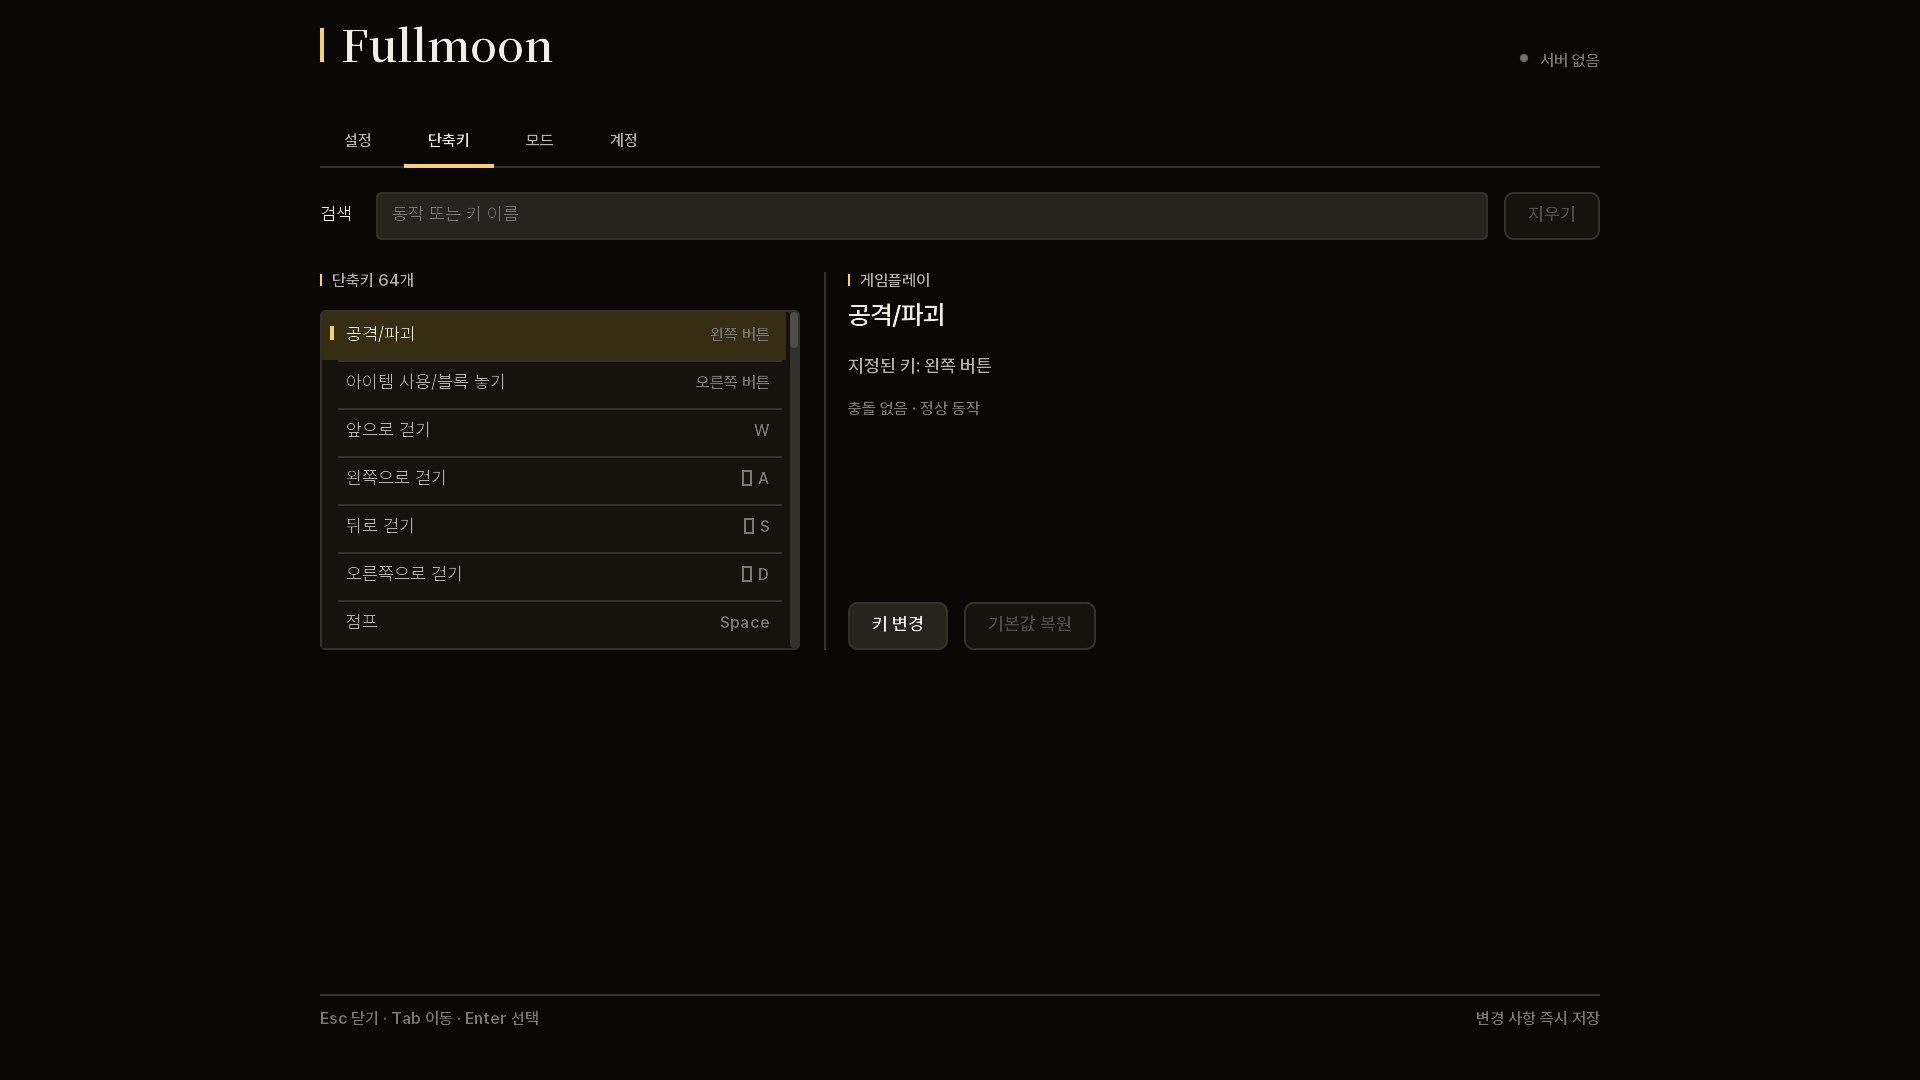
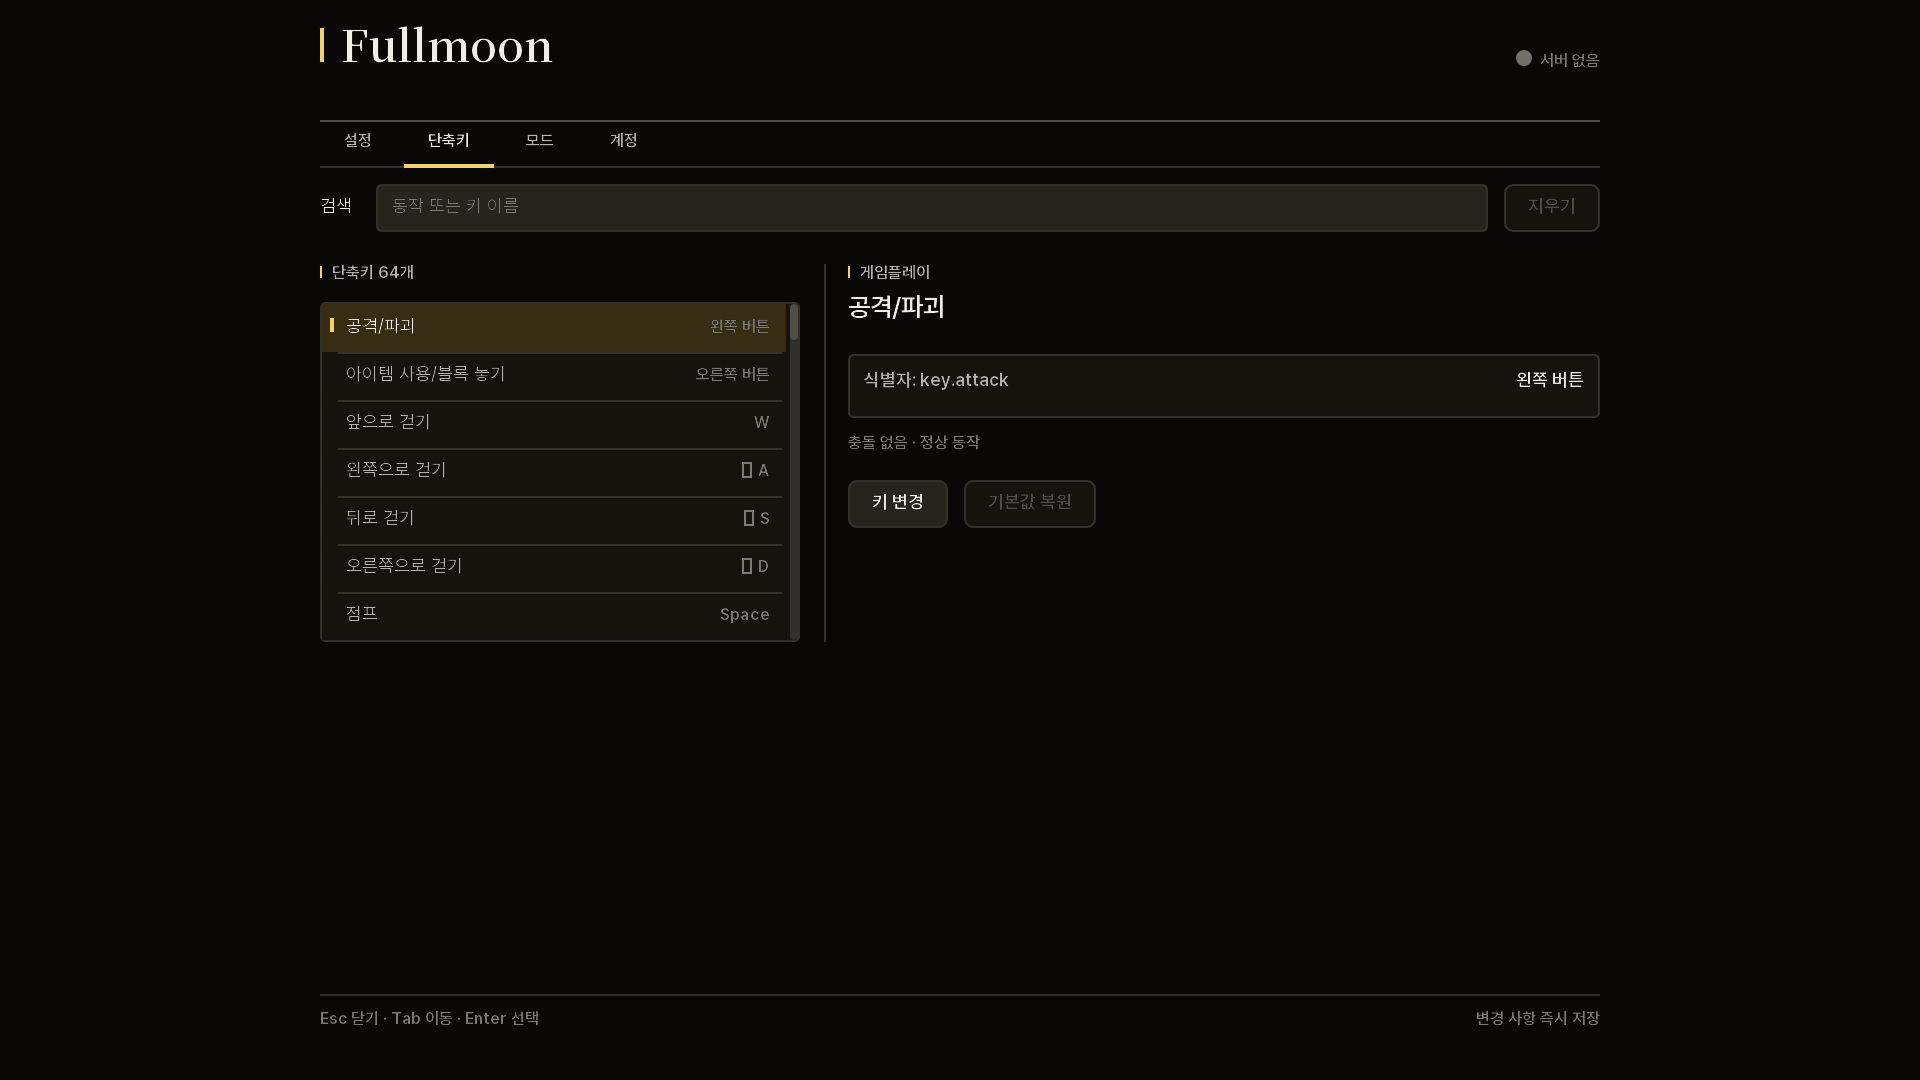
style(i3): fine-tune master-detail ledger layouts, card rhythm, and action alignment

diff --git a/i3/mod/src/main/java/dev/fullmoon/client/account/AccountScreen.java b/i3/mod/src/main/java/dev/fullmoon/client/account/AccountScreen.java
@@ -28,8 +28,9 @@ import net.minecraft.network.chat.Component;
 
 /** In-game player identity and network connection surface. */
 public final class AccountScreen extends SurfaceScreen {
-    private static final int MAX_CONTENT = 540;
+    private static final int MAX_CONTENT = 580;
     private static final int COMPACT_HEIGHT = 320;
+    private static final int CARD_HEIGHT = 68;
 
     private final Screen parent;
     private final TabRail hub;
@@ -68,17 +69,21 @@ public final class AccountScreen extends SurfaceScreen {
         content = new Box((width - frame) / 2, edge, frame, height - edge * 2);
         footerY = content.bottom() - Tokens.Type.LABEL.leading() - Tokens.Space.COZY;
 
-        int railY = content.y() + (compact ? Tokens.Type.TITLE.leading() : Tokens.Type.DISPLAY.leading()) + Tokens.Space.COZY;
+        int railY = content.y() + HubChrome.mastheadHeight(compact);
         hub.place(new Box(content.x(), railY, content.w(), TabRail.HEIGHT));
 
-        int bodyY = railY + TabRail.HEIGHT + Tokens.Space.LOOSE;
+        int bodyY = railY + TabRail.HEIGHT + Tokens.Space.GUTTER;
         body = Box.between(content.x(), bodyY, content.right(), footerY - Tokens.Space.GUTTER);
 
-        int buttonY = body.bottom() - Button.HEIGHT;
+        int profileCardY = body.y() + DevChrome.sectionHeadHeight();
         int copyUuidW = copyUuid.measure();
+        copyUuid.place(new Box(body.right() - copyUuidW - Tokens.Space.COZY,
+            profileCardY + CARD_HEIGHT - Button.HEIGHT - Tokens.Space.COZY, copyUuidW, Button.HEIGHT));
+
+        int serverCardY = profileCardY + CARD_HEIGHT + Tokens.Space.GUTTER + DevChrome.sectionHeadHeight();
         int copyServerW = copyServer.measure();
-        copyUuid.place(new Box(body.x(), buttonY, copyUuidW, Button.HEIGHT));
-        copyServer.place(new Box(body.x() + copyUuidW + Tokens.Space.COZY, buttonY, copyServerW, Button.HEIGHT));
+        copyServer.place(new Box(body.right() - copyServerW - Tokens.Space.COZY,
+            serverCardY + CARD_HEIGHT - Button.HEIGHT - Tokens.Space.COZY, copyServerW, Button.HEIGHT));
     }
 
     @Override
@@ -117,26 +122,44 @@ public final class AccountScreen extends SurfaceScreen {
         boolean live = client.level != null && server != null;
         String serverStatus = live ? server.ip : tr("server.offline");
 
+        // Profile Section
         int y = body.y();
         y = DevChrome.sectionHead(painter, tr("section.profile"), body.x(), y);
-        Typeset.draw(painter, Tokens.Type.TITLE, username, body.x(), y, Tokens.Color.INK_PRIMARY);
 
-        y += Tokens.Type.TITLE.leading() + Tokens.Space.SNUG;
-        Typeset.draw(painter, Tokens.Type.LABEL, tr("type", userType), body.x(), y, Tokens.Color.INK_TERTIARY);
+        painter.fill(body.x(), y, body.w(), CARD_HEIGHT, Tokens.Radius.SM, Tokens.Color.SURFACE_SUNKEN);
+        painter.border(body.x(), y, body.w(), CARD_HEIGHT, Tokens.Radius.SM, Tokens.Stroke.HAIR,
+            Tokens.Color.LINE_HAIRLINE);
 
-        y += Tokens.Type.LABEL.leading() + Tokens.Space.SNUG;
-        Typeset.draw(painter, Tokens.Type.BODY, "UUID: " + uuid, body.x(), y, Tokens.Color.INK_SECONDARY);
+        int textX = body.x() + Tokens.Space.COZY;
+        int row1Y = y + Tokens.Space.COZY;
+        Typeset.draw(painter, Tokens.Type.TITLE, username, textX, row1Y, Tokens.Color.INK_PRIMARY);
+        Typeset.drawRight(painter, Tokens.Type.LABEL, tr("type", userType),
+            body.right() - Tokens.Space.COZY, row1Y + (Tokens.Type.TITLE.leading() - Tokens.Type.LABEL.leading()) / 2,
+            Tokens.Color.INK_TERTIARY);
 
-        y += Tokens.Type.BODY.leading() + Tokens.Space.SECTION;
+        int row2Y = row1Y + Tokens.Type.TITLE.leading() + Tokens.Space.SNUG;
+        Typeset.draw(painter, Tokens.Type.BODY, "UUID: " + uuid, textX, row2Y, Tokens.Color.INK_SECONDARY);
+
+        // Connection Section
+        y += CARD_HEIGHT + Tokens.Space.GUTTER;
         y = DevChrome.sectionHead(painter, tr("section.connection"), body.x(), y);
 
-        int dotY = (int) (y + Typeset.capHeight(Tokens.Type.LABEL) / 2.0f);
-        painter.dot(body.x() + Tokens.Space.SNUG, dotY, Tokens.Space.SNUG,
-            live ? Tokens.Color.STATUS_LIVE : Tokens.Color.STATUS_IDLE);
+        painter.fill(body.x(), y, body.w(), CARD_HEIGHT, Tokens.Radius.SM, Tokens.Color.SURFACE_SUNKEN);
+        painter.border(body.x(), y, body.w(), CARD_HEIGHT, Tokens.Radius.SM, Tokens.Stroke.HAIR,
+            Tokens.Color.LINE_HAIRLINE);
 
+        int sRow1Y = y + Tokens.Space.COZY;
+        int dotCenterY = sRow1Y + Typeset.capHeight(Tokens.Type.BODY_STRONG) / 2;
+        painter.dot(textX + Tokens.Space.SNUG, dotCenterY, Tokens.Space.SNUG,
+            live ? Tokens.Color.STATUS_LIVE : Tokens.Color.STATUS_IDLE);
         Typeset.draw(painter, Tokens.Type.BODY_STRONG, serverStatus,
-            body.x() + Tokens.Space.SECTION, y,
-            live ? Tokens.Color.INK_PRIMARY : Tokens.Color.INK_TERTIARY);
+            textX + Tokens.Space.SECTION, sRow1Y,
+            live ? Tokens.Color.INK_PRIMARY : Tokens.Color.INK_SECONDARY);
+
+        int sRow2Y = sRow1Y + Tokens.Type.BODY_STRONG.leading() + Tokens.Space.SNUG;
+        String authText = live ? tr("footer.info") : tr("server.offline");
+        Typeset.draw(painter, Tokens.Type.LABEL, authText, textX + Tokens.Space.SECTION, sRow2Y,
+            Tokens.Color.INK_TERTIARY);
     }
 
     private void widgets(Painter painter) {

diff --git a/i3/mod/src/main/java/dev/fullmoon/client/keybinds/KeybindsScreen.java b/i3/mod/src/main/java/dev/fullmoon/client/keybinds/KeybindsScreen.java
@@ -29,7 +29,6 @@ import net.minecraft.client.Minecraft;
 import net.minecraft.client.gui.GuiGraphicsExtractor;
 import net.minecraft.client.gui.screens.Screen;
 import net.minecraft.client.input.KeyEvent;
-import net.minecraft.client.multiplayer.ServerData;
 import net.minecraft.client.resources.language.I18n;
 import net.minecraft.network.chat.Component;
 
@@ -43,6 +42,7 @@ public final class KeybindsScreen extends SurfaceScreen {
     private static final int DETAIL_MIN_HEIGHT = 144;
     private static final int COMPACT_HEIGHT = 320;
     private static final int QUERY_LIMIT = 64;
+    private static final int CARD_HEIGHT = 32;
     private static final Runnable INERT = () -> {};
 
     private record Item(KeybindEntry entry, KeyMapping mapping, List<KeybindEntry> conflicts) {}
@@ -137,10 +137,10 @@ public final class KeybindsScreen extends SurfaceScreen {
         content = new Box((width - frame) / 2, edge, frame, height - edge * 2);
         footerY = content.bottom() - Tokens.Type.LABEL.leading() - Tokens.Space.COZY;
 
-        int railY = content.y() + (compact ? Tokens.Type.TITLE.leading() : Tokens.Type.DISPLAY.leading()) + Tokens.Space.COZY;
+        int railY = content.y() + HubChrome.mastheadHeight(compact);
         hub.place(new Box(content.x(), railY, content.w(), TabRail.HEIGHT));
 
-        int searchY = railY + TabRail.HEIGHT + Tokens.Space.LOOSE;
+        int searchY = railY + TabRail.HEIGHT + Tokens.Space.COZY;
         int clearWidth = clear.measure();
         search.place(new Box(content.x(), searchY,
             content.w() - clearWidth - Tokens.Space.COZY, TextField.HEIGHT));
@@ -159,7 +159,10 @@ public final class KeybindsScreen extends SurfaceScreen {
         detail = columns.rest();
 
         if (rebind != null && reset != null) {
-            int buttonY = detail.bottom() - Button.HEIGHT;
+            int cardY = body.y() + DevChrome.sectionHeadHeight()
+                + Tokens.Type.TITLE.leading() + Tokens.Space.COZY;
+            int buttonY = cardY + CARD_HEIGHT + Tokens.Space.COZY
+                + Tokens.Type.LABEL.leading() + Tokens.Space.LOOSE;
             int rebindW = rebind.measure();
             int resetW = reset.measure();
             rebind.place(new Box(detail.x(), buttonY, rebindW, Button.HEIGHT));
@@ -208,15 +211,27 @@ public final class KeybindsScreen extends SurfaceScreen {
         Typeset.draw(painter, Tokens.Type.TITLE, entry.label(), detail.x(), y,
             Tokens.Color.INK_PRIMARY);
 
-        int keyY = y + Tokens.Type.TITLE.leading() + Tokens.Space.BASE;
-        String boundText = listening ? tr("state.listening") : entry.boundKey();
-        int boundColor = listening
-            ? Tokens.Color.ACCENT
-            : (item.conflicts().isEmpty() ? Tokens.Color.INK_SECONDARY : Tokens.Color.STATUS_DANGER);
-        Typeset.draw(painter, Tokens.Type.BODY_STRONG, tr("current.key", boundText), detail.x(), keyY, boundColor);
+        int cardY = y + Tokens.Type.TITLE.leading() + Tokens.Space.COZY;
+        boolean hasConflict = !item.conflicts().isEmpty();
+        int cardBorder = listening ? Tokens.Color.ACCENT
+            : (hasConflict ? Tokens.Color.STATUS_DANGER : Tokens.Color.LINE_HAIRLINE);
 
-        int conflictY = keyY + Tokens.Type.BODY_STRONG.leading() + Tokens.Space.COZY;
-        if (!item.conflicts().isEmpty()) {
+        painter.fill(detail.x(), cardY, detail.w(), CARD_HEIGHT, Tokens.Radius.SM, Tokens.Color.SURFACE_SUNKEN);
+        painter.border(detail.x(), cardY, detail.w(), CARD_HEIGHT, Tokens.Radius.SM, Tokens.Stroke.HAIR,
+            cardBorder);
+
+        int textY = cardY + (CARD_HEIGHT - Tokens.Type.BODY_STRONG.leading()) / 2;
+        Typeset.draw(painter, Tokens.Type.BODY_STRONG, tr("entry.id", entry.id()),
+            detail.x() + Tokens.Space.COZY, textY, Tokens.Color.INK_SECONDARY);
+
+        String boundText = listening ? tr("state.listening") : entry.boundKey();
+        int boundColor = listening ? Tokens.Color.ACCENT
+            : (hasConflict ? Tokens.Color.STATUS_DANGER : Tokens.Color.INK_PRIMARY);
+        Typeset.drawRight(painter, Tokens.Type.BODY_STRONG, boundText,
+            detail.right() - Tokens.Space.COZY, textY, boundColor);
+
+        int conflictY = cardY + CARD_HEIGHT + Tokens.Space.COZY;
+        if (hasConflict) {
             StringBuilder warning = new StringBuilder(tr("conflict.warning") + ": ");
             for (int i = 0; i < item.conflicts().size(); i++) {
                 if (i > 0) warning.append(", ");
@@ -291,7 +306,7 @@ public final class KeybindsScreen extends SurfaceScreen {
 
         for (KeyMapping km : mappings) {
             String id = km.getName();
-            String cat = dev.fullmoon.client.ui.HubChrome.categoryLabel(km);
+            String cat = HubChrome.categoryLabel(km);
             String label = I18n.get(id);
             InputConstants.Key boundKey = KeyMappingHelper.getBoundKeyOf(km);
             String boundStr = boundKey.getDisplayName().getString();

diff --git a/i3/mod/src/main/java/dev/fullmoon/client/settings/SettingsScreen.java b/i3/mod/src/main/java/dev/fullmoon/client/settings/SettingsScreen.java
@@ -28,7 +28,6 @@ import net.minecraft.client.OptionInstance;
 import net.minecraft.client.Options;
 import net.minecraft.client.gui.GuiGraphicsExtractor;
 import net.minecraft.client.gui.screens.Screen;
-import net.minecraft.client.multiplayer.ServerData;
 import net.minecraft.client.resources.language.I18n;
 import net.minecraft.network.chat.Component;
 
@@ -40,6 +39,7 @@ public final class SettingsScreen extends SurfaceScreen {
     private static final int DETAIL_MIN_HEIGHT = 144;
     private static final int COMPACT_HEIGHT = 320;
     private static final int QUERY_LIMIT = 64;
+    private static final int CARD_HEIGHT = 32;
     private static final Runnable INERT = () -> {};
 
     private static final List<Spec> SPECS = List.of(
@@ -91,7 +91,7 @@ public final class SettingsScreen extends SurfaceScreen {
             this.selected, this::picked));
 
         Item current = current();
-        toggle = current == null ? null : surface.add(new Toggle(tr("state.enabled"),
+        toggle = current == null ? null : surface.add(new Toggle("",
             current.option().get(), this::changed));
     }
 
@@ -113,10 +113,10 @@ public final class SettingsScreen extends SurfaceScreen {
         content = new Box((width - frame) / 2, edge, frame, height - edge * 2);
         footerY = content.bottom() - Tokens.Type.LABEL.leading() - Tokens.Space.COZY;
 
-        int railY = content.y() + (compact ? Tokens.Type.TITLE.leading() : Tokens.Type.DISPLAY.leading()) + Tokens.Space.COZY;
+        int railY = content.y() + HubChrome.mastheadHeight(compact);
         hub.place(new Box(content.x(), railY, content.w(), TabRail.HEIGHT));
 
-        int searchY = railY + TabRail.HEIGHT + Tokens.Space.LOOSE;
+        int searchY = railY + TabRail.HEIGHT + Tokens.Space.COZY;
         int clearWidth = clear.measure();
         search.place(new Box(content.x(), searchY,
             content.w() - clearWidth - Tokens.Space.COZY, TextField.HEIGHT));
@@ -133,9 +133,14 @@ public final class SettingsScreen extends SurfaceScreen {
         int listY = body.y() + DevChrome.sectionHeadHeight();
         results.place(Box.between(columns.head().x(), listY, columns.head().right(), body.bottom()));
         detail = columns.rest();
+
         if (toggle != null) {
-            toggle.place(new Box(detail.x(), detail.bottom() - Toggle.HEIGHT,
-                detail.w(), Toggle.HEIGHT));
+            int cardY = body.y() + DevChrome.sectionHeadHeight()
+                + Tokens.Type.TITLE.leading() + Tokens.Space.COZY
+                + Tokens.Type.BODY.leading() * 2 + Tokens.Space.GUTTER;
+            int toggleW = Toggle.TRACK_W;
+            toggle.place(new Box(detail.right() - toggleW - Tokens.Space.COZY,
+                cardY + (CARD_HEIGHT - Toggle.TRACK_H) / 2, toggleW, Toggle.TRACK_H));
         }
     }
 
@@ -179,11 +184,22 @@ public final class SettingsScreen extends SurfaceScreen {
         int y = DevChrome.sectionHead(painter, copy.section(), detail.x(), body.y());
         Typeset.draw(painter, Tokens.Type.TITLE, copy.label(), detail.x(), y,
             Tokens.Color.INK_PRIMARY);
-        int descriptionY = y + Tokens.Type.TITLE.leading() + Tokens.Space.COZY;
-        Typeset.drawWrapped(painter, Tokens.Type.BODY, copy.description(), detail.x(), descriptionY,
+
+        int descY = y + Tokens.Type.TITLE.leading() + Tokens.Space.COZY;
+        Typeset.drawWrapped(painter, Tokens.Type.BODY, copy.description(), detail.x(), descY,
             detail.w(), height < COMPACT_HEIGHT ? 2 : 3, Tokens.Color.INK_SECONDARY);
-        Typeset.draw(painter, Tokens.Type.LABEL, tr("source.minecraft"), detail.x(),
-            toggle.bounds().y() - Tokens.Type.LABEL.leading() - Tokens.Space.COZY,
+
+        int cardY = descY + Tokens.Type.BODY.leading() * 2 + Tokens.Space.GUTTER;
+        painter.fill(detail.x(), cardY, detail.w(), CARD_HEIGHT, Tokens.Radius.SM, Tokens.Color.SURFACE_SUNKEN);
+        painter.border(detail.x(), cardY, detail.w(), CARD_HEIGHT, Tokens.Radius.SM, Tokens.Stroke.HAIR,
+            Tokens.Color.LINE_HAIRLINE);
+
+        int textY = cardY + (CARD_HEIGHT - Tokens.Type.BODY_STRONG.leading()) / 2;
+        Typeset.draw(painter, Tokens.Type.BODY_STRONG, tr("state.enabled"),
+            detail.x() + Tokens.Space.COZY, textY, Tokens.Color.INK_PRIMARY);
+
+        int noteY = cardY + CARD_HEIGHT + Tokens.Space.COZY;
+        Typeset.draw(painter, Tokens.Type.LABEL, tr("source.minecraft"), detail.x(), noteY,
             Tokens.Color.INK_TERTIARY);
     }
 
@@ -270,7 +286,6 @@ public final class SettingsScreen extends SurfaceScreen {
         return new Spec(id, section, option);
     }
 
-    /** Screen replacement waits for the input dispatch that requested it to finish. */
     private static void showNext(Screen screen) {
         Minecraft client = Minecraft.getInstance();
         client.schedule(() -> client.setScreen(screen));

diff --git a/i3/mod/src/main/java/dev/fullmoon/client/ui/HubChrome.java b/i3/mod/src/main/java/dev/fullmoon/client/ui/HubChrome.java
@@ -15,7 +15,12 @@ import net.minecraft.resources.Identifier;
 public final class HubChrome {
     private HubChrome() {}
 
-    public static void masthead(Painter painter, Box content, boolean compact) {
+    public static int mastheadHeight(boolean compact) {
+        return (compact ? Tokens.Type.TITLE.leading() : Tokens.Type.DISPLAY.leading())
+            + Tokens.Space.COZY;
+    }
+
+    public static int masthead(Painter painter, Box content, boolean compact) {
         Tokens.Type.Role brand = compact ? Tokens.Type.TITLE : Tokens.Type.DISPLAY;
         int y = content.y();
         painter.fill(content.x(), Typeset.capTop(brand, y), Tokens.Stroke.FOCUS,
@@ -23,6 +28,10 @@ public final class HubChrome {
         int textX = content.x() + Tokens.Stroke.FOCUS + Tokens.Space.COZY;
         Typeset.draw(painter, brand, "Fullmoon", textX, y, Tokens.Color.INK_PRIMARY);
         connection(painter, content, y + Tokens.Space.TIGHT);
+
+        int ruleY = y + (compact ? Tokens.Type.TITLE.leading() : Tokens.Type.DISPLAY.leading()) + Tokens.Space.COZY;
+        painter.hRule(content.x(), ruleY, content.w(), Tokens.Color.LINE_STRONG);
+        return ruleY;
     }
 
     public static void connection(Painter painter, Box content, int y) {
@@ -37,7 +46,7 @@ public final class HubChrome {
         int width = Typeset.width(Tokens.Type.LABEL, status);
         int textX = content.right() - width;
         painter.dot(textX - Tokens.Space.COZY, y + Typeset.capHeight(Tokens.Type.LABEL) / 2.0f,
-            Tokens.Space.TIGHT, live ? Tokens.Color.STATUS_LIVE : Tokens.Color.STATUS_IDLE);
+            Tokens.Space.SNUG, live ? Tokens.Color.STATUS_LIVE : Tokens.Color.STATUS_IDLE);
         Typeset.draw(painter, Tokens.Type.LABEL, status, textX, y, Tokens.Color.INK_TERTIARY);
     }
 
@@ -47,7 +56,6 @@ public final class HubChrome {
         if (I18n.exists(langKey)) {
             return I18n.get(langKey);
         }
-        // Fallback for custom categories without language key
         String path = id.getPath();
         return path.substring(0, 1).toUpperCase() + path.substring(1);
     }

diff --git a/i3/mod/src/main/java/dev/fullmoon/client/mods/ModsScreen.java b/i3/mod/src/main/java/dev/fullmoon/client/mods/ModsScreen.java
@@ -171,7 +171,22 @@ public final class ModsScreen extends SurfaceScreen {
         int descY = authorY + Tokens.Type.LABEL.leading() + Tokens.Space.COZY;
         String desc = item.description().isBlank() ? tr("no.description") : item.description();
         Typeset.drawWrapped(painter, Tokens.Type.BODY, desc, detail.x(), descY,
-            detail.w(), height < COMPACT_HEIGHT ? 3 : 5, Tokens.Color.INK_SECONDARY);
+            detail.w(), height < COMPACT_HEIGHT ? 3 : 4, Tokens.Color.INK_SECONDARY);
+
+        int cardY = descY + Tokens.Type.BODY.leading() * 3 + Tokens.Space.GUTTER;
+        painter.fill(detail.x(), cardY, detail.w(), 32, Tokens.Radius.SM, Tokens.Color.SURFACE_SUNKEN);
+        painter.border(detail.x(), cardY, detail.w(), 32, Tokens.Radius.SM, Tokens.Stroke.HAIR,
+            Tokens.Color.LINE_HAIRLINE);
+
+        int textY = cardY + (32 - Tokens.Type.BODY_STRONG.leading()) / 2;
+        Typeset.draw(painter, Tokens.Type.BODY_STRONG, item.id(),
+            detail.x() + Tokens.Space.COZY, textY, Tokens.Color.INK_PRIMARY);
+
+        int dotX = detail.right() - Typeset.width(Tokens.Type.LABEL, "활성") - Tokens.Space.SECTION;
+        painter.dot(dotX, cardY + 16, Tokens.Space.SNUG, Tokens.Color.STATUS_LIVE);
+        Typeset.drawRight(painter, Tokens.Type.LABEL, "활성",
+            detail.right() - Tokens.Space.COZY, cardY + (32 - Tokens.Type.LABEL.leading()) / 2,
+            Tokens.Color.INK_SECONDARY);
     }
 
     private void widgets(Painter painter) {
